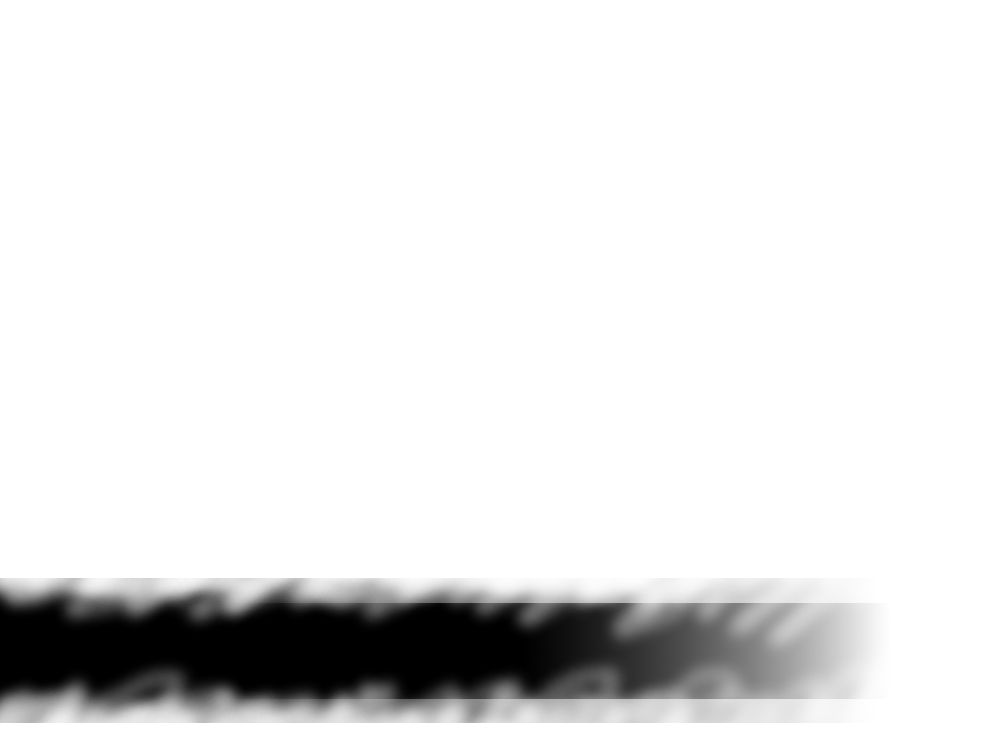
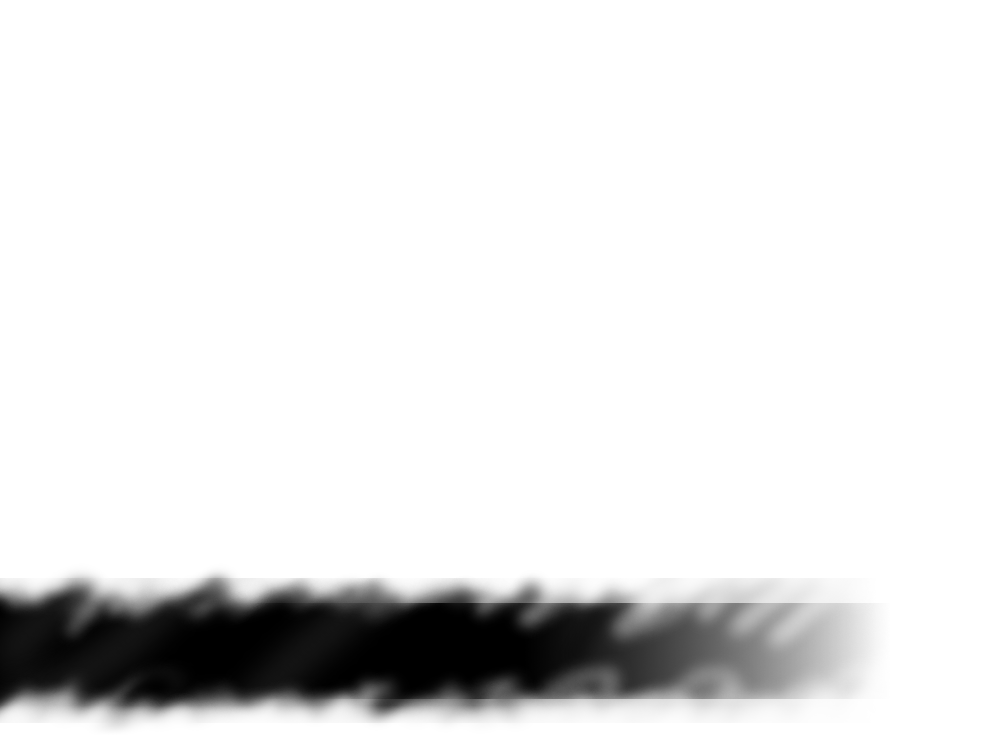
Added a 'textureOffset' property to GLVideoDrawable and integrated it with the GLSL shaders inorder to allow offseting the video texture while keeping the alpha mask in the same place.
git-svn-id: http://dviz.googlecode.com/svn/trunk@622 5ee4d49e-9b41-11de-8595-bbd473b9459f

diff --git a/src/glvidtex/GLVideoDrawable.cpp b/src/glvidtex/GLVideoDrawable.cpp
@@ -55,10 +55,13 @@ static const char *qt_glsl_xrgbShaderProgram =
         "uniform sampler2D alphaMask;\n"
         "uniform mediump mat4 colorMatrix;\n"
         "uniform mediump float alpha;\n"
+        "uniform mediump float texOffsetX;\n"
+        "uniform mediump float texOffsetY;\n"
         "varying highp vec2 textureCoord;\n"
         "void main(void)\n"
         "{\n"
-        "    highp vec4 color = vec4(texture2D(texRgb, textureCoord.st).bgr, 1.0);\n"
+        "    mediump vec2 texPoint = vec2(textureCoord.s + texOffsetX, textureCoord.t + texOffsetY);\n"
+        "    highp vec4 color = vec4(texture2D(texRgb, texPoint).bgr, 1.0);\n"
         "    color = colorMatrix * color;\n"
         "    gl_FragColor = vec4(color.rgb, alpha * texture2D(alphaMask, textureCoord.st).a);\n"
         "}\n";
@@ -70,12 +73,15 @@ static const char *qt_glsl_argbShaderProgram =
 	"uniform sampler2D alphaMask;\n"
 	"uniform mediump mat4 colorMatrix;\n"
 	"uniform mediump float alpha;\n"
+	"uniform mediump float texOffsetX;\n"
+        "uniform mediump float texOffsetY;\n"
 	"varying highp vec2 textureCoord;\n"
 	"void main(void)\n"
 	"{\n"
-	"    highp vec4 color = vec4(texture2D(texRgb, textureCoord.st).bgr, 1.0);\n"
+	"    mediump vec2 texPoint = vec2(textureCoord.s + texOffsetX, textureCoord.t + texOffsetY);\n"
+	"    highp vec4 color = vec4(texture2D(texRgb, texPoint).bgr, 1.0);\n"
 	"    color = colorMatrix * color;\n"
-	"    gl_FragColor = vec4(color.rgb, texture2D(texRgb, textureCoord.st).a * alpha * texture2D(alphaMask, textureCoord.st).a);\n"
+	"    gl_FragColor = vec4(color.rgb, texture2D(texRgb, texPoint).a * alpha * texture2D(alphaMask, textureCoord.st).a);\n"
 	"}\n";
 
 
@@ -143,12 +149,15 @@ static const char *qt_glsl_rgbShaderProgram =
         "uniform sampler2D alphaMask;\n"
         "uniform mediump mat4 colorMatrix;\n"
         "uniform mediump float alpha;\n"
+        "uniform mediump float texOffsetX;\n"
+        "uniform mediump float texOffsetY;\n"
         "varying highp vec2 textureCoord;\n"
         "void main(void)\n"
         "{\n"
-        "    highp vec4 color = vec4(texture2D(texRgb, textureCoord.st).rgb, 1.0);\n"
+        "    mediump vec2 texPoint = vec2(textureCoord.s + texOffsetX, textureCoord.t + texOffsetY);\n"
+        "    highp vec4 color = vec4(texture2D(texRgb, texPoint).rgb, 1.0);\n"
         "    color = colorMatrix * color;\n"
-        "    gl_FragColor = vec4(color.rgb, texture2D(texRgb, textureCoord.st).a * alpha * texture2D(alphaMask, textureCoord.st).a);\n"
+        "    gl_FragColor = vec4(color.rgb, texture2D(texRgb, texPoint).a * alpha * texture2D(alphaMask, textureCoord.st).a);\n"
         "}\n";
 
 // Paints a YUV420P or YV12 frame.
@@ -159,13 +168,16 @@ static const char *qt_glsl_yuvPlanarShaderProgram =
         "uniform sampler2D alphaMask;\n"
         "uniform mediump mat4 colorMatrix;\n"
         "uniform mediump float alpha;\n"
+        "uniform mediump float texOffsetX;\n"
+        "uniform mediump float texOffsetY;\n"
         "varying highp vec2 textureCoord;\n"
         "void main(void)\n"
         "{\n"
+        "    mediump vec2 texPoint = vec2(textureCoord.s + texOffsetX, textureCoord.t + texOffsetY);\n"
         "    highp vec4 color = vec4(\n"
-        "           texture2D(texY, textureCoord.st).r,\n"
-        "           texture2D(texU, textureCoord.st).r,\n"
-        "           texture2D(texV, textureCoord.st).r,\n"
+        "           texture2D(texY, texPoint).r,\n"
+        "           texture2D(texU, texPoint).r,\n"
+        "           texture2D(texV, texPoint).r,\n"
         "           1.0);\n"
         "    color = colorMatrix * color;\n"
         "    gl_FragColor = vec4(color.rgb, alpha * texture2D(alphaMask, textureCoord.st).a);\n"
@@ -225,6 +237,7 @@ GLVideoDrawable::GLVideoDrawable(QObject *parent)
 	, m_validShader(false)
 	, m_program(0)
 	, m_uploadedCacheKey(0)
+	, m_textureOffset(0,0)
 {
 	
 	m_imagePixelFormats
@@ -749,35 +762,44 @@ const char * GLVideoDrawable::resizeTextures(const QSize& frameSize)
 	//qDebug() << "GLVideoDrawable::resizeTextures(): "<<objectName()<<" \t frameSize: "<<frameSize<<", format: "<<m_videoFormat.pixelFormat;
 	m_frameSize = frameSize;
 
+	bool debugShaderName = true;
 	switch (m_videoFormat.pixelFormat) 
 	{
 	case QVideoFrame::Format_RGB32:
-// 		qDebug() << "GLVideoDrawable::resizeTextures(): \t Format RGB32, using qt_glsl_xrgbShaderProgram";
+ 		if(debugShaderName)
+ 			qDebug() << "GLVideoDrawable::resizeTextures(): \t Format RGB32, using qt_glsl_xrgbShaderProgram";
 		initRgbTextureInfo(GL_RGBA, GL_RGBA, GL_UNSIGNED_BYTE, frameSize);
 		fragmentProgram = qt_glsl_xrgbShaderProgram;
 		break;
         case QVideoFrame::Format_ARGB32:
-//         	qDebug() << "GLVideoDrawable::resizeTextures(): \t Format ARGB, using qt_glsl_argbShaderProgram";
+         	if(debugShaderName)
+         		qDebug() << "GLVideoDrawable::resizeTextures(): \t Format ARGB, using qt_glsl_argbShaderProgram";
 		initRgbTextureInfo(GL_RGBA, GL_RGBA, GL_UNSIGNED_BYTE, frameSize);
 		fragmentProgram = qt_glsl_argbShaderProgram;
 		break;
 #ifndef QT_OPENGL_ES
         case QVideoFrame::Format_RGB24:
-//         	qDebug() << "GLVideoDrawable::resizeTextures(): \t Format RGB24, using qt_glsl_rgbShaderProgram";
+        	if(debugShaderName)
+         		qDebug() << "GLVideoDrawable::resizeTextures(): \t Format RGB24, using qt_glsl_rgbShaderProgram";
 		initRgbTextureInfo(GL_RGB8, GL_RGB, GL_UNSIGNED_BYTE, frameSize);
 		fragmentProgram = qt_glsl_rgbShaderProgram;
 		break;
 #endif
 	case QVideoFrame::Format_RGB565:
-// 		qDebug() << "GLVideoDrawable::resizeTextures(): \t Format RGB565, using qt_glsl_rgbShaderProgram";
+		if(debugShaderName)
+			qDebug() << "GLVideoDrawable::resizeTextures(): \t Format RGB565, using qt_glsl_rgbShaderProgram";
 		initRgbTextureInfo(GL_RGB, GL_RGB, GL_UNSIGNED_SHORT_5_6_5, frameSize);
 		fragmentProgram = qt_glsl_rgbShaderProgram;
 		break;
 	case QVideoFrame::Format_YV12:
+		if(debugShaderName)
+			qDebug() << "GLVideoDrawable::resizeTextures(): \t Format YV12, using qt_glsl_yuvPlanarShaderProgram";
 		initYv12TextureInfo(frameSize);
 		fragmentProgram = qt_glsl_yuvPlanarShaderProgram;
 		break;
 	case QVideoFrame::Format_YUV420P:
+		if(debugShaderName)
+			qDebug() << "GLVideoDrawable::resizeTextures(): \t Format YUV420P, using qt_glsl_yuvPlanarShaderProgram";
 		initYuv420PTextureInfo(frameSize);
 		fragmentProgram = qt_glsl_yuvPlanarShaderProgram;
 		break;
@@ -808,6 +830,10 @@ void GLVideoDrawable::updateRects()
 	m_sourceRect = m_frame.rect;
 	//if(m_frame.rect != m_sourceRect)
 	setAlphaMask(m_alphaMask);
+	
+	
+	m_invertedOffset = QPointF(m_textureOffset.x() * 1/m_sourceRect.width(),
+				   m_textureOffset.y() * 1/m_sourceRect.height());
 	
 	// force mask to be re-scaled
 	//qDebug() << "GLVideoDrawable::updateRects(): "<<this<<",  New source rect: "<<m_sourceRect<<", mask size:"<<m_alphaMask.size()<<", isNull?"<<m_alphaMask.isNull();
@@ -865,6 +891,17 @@ void GLVideoDrawable::setDisplayOptions(const VideoDisplayOptions& opts)
 	m_displayOpts = opts;
 	m_colorsDirty = true;
 	emit displayOptionsChanged(opts);
+	updateGL();
+}
+
+void GLVideoDrawable::setTextureOffset(double x, double y)
+{
+	setTextureOffset(QPointF(x,y));
+}
+
+void GLVideoDrawable::setTextureOffset(const QPointF& point)
+{
+	m_textureOffset = point;
 	updateGL();
 }
 	
@@ -935,10 +972,10 @@ void GLVideoDrawable::paintGL()
 
 	const GLfloat vertexCoordArray[] =
 	{
-		target.left()     , target.bottom() + 1,(GLfloat)zIndex(),
-		target.right() + 1, target.bottom() + 1,(GLfloat)zIndex(),
-		target.left()     , target.top(), 	(GLfloat)zIndex(),
-		target.right() + 1, target.top(), 	(GLfloat)zIndex()
+		target.left()     , target.bottom() + 1,//(GLfloat)zIndex(),
+		target.right() + 1, target.bottom() + 1,//(GLfloat)zIndex(),
+		target.left()     , target.top(), 	//(GLfloat)zIndex(),
+		target.right() + 1, target.top()//, 	(GLfloat)zIndex()
 	};
 	
 	
@@ -967,12 +1004,15 @@ void GLVideoDrawable::paintGL()
 	m_program->enableAttributeArray("vertexCoordArray");
 	m_program->enableAttributeArray("textureCoordArray");
 	
-	m_program->setAttributeArray("vertexCoordArray",  vertexCoordArray,  3);
+	m_program->setAttributeArray("vertexCoordArray",  vertexCoordArray,  2);
 	m_program->setAttributeArray("textureCoordArray", textureCoordArray, 2);
 	
 	m_program->setUniformValue("positionMatrix",      positionMatrix);
 	
 	m_program->setUniformValue("alpha",               (GLfloat)opacity());
+	m_program->setUniformValue("texOffsetX",          (GLfloat)m_invertedOffset.x());
+	m_program->setUniformValue("texOffsetY",          (GLfloat)m_invertedOffset.y());
+		
 
 	if (m_textureCount == 3) 
 	{

diff --git a/src/glvidtex/main.cpp b/src/glvidtex/main.cpp
@@ -54,9 +54,9 @@ GLDrawable * addCamera(GLWidget *glw, QString camera = "")
 // 		
 
 
-		VideoDisplayOptionWidget *opts = new VideoDisplayOptionWidget(drawable);
-		opts->adjustSize();
-		opts->show();
+// 		VideoDisplayOptionWidget *opts = new VideoDisplayOptionWidget(drawable);
+// 		opts->adjustSize();
+// 		opts->show();
 		return drawable;
 	}
 
@@ -309,7 +309,7 @@ QFormLayout * createToggleBox()
 	tb->setWindowTitle("Toggle Box");
 	QFormLayout *layout = new QFormLayout;
 	tb->setLayout(layout);
-	tb->show();
+	//tb->show();
 	return layout;
 }
 
@@ -349,9 +349,9 @@ int main(int argc, char *argv[])
 /*		d = addCamera(glw,"/dev/video0");
 		if(d)
 		{*/
-			d = addCamera(glw,"/dev/video1");
-			if(d)
-				addButtons(tb,d); 
+// 			d = addCamera(glw,"/dev/video1");
+// 			if(d)
+// 				addButtons(tb,d); 
 			
 			d = addCamera(glw,"/dev/video0");
 			if(d)
@@ -360,12 +360,12 @@ int main(int argc, char *argv[])
 /*		}
 		else
 		*/
-			addButtons(tb,addStaticSource(glw));
+// 			addButtons(tb,addStaticSource(glw));
 	#endif
 	
-	addButtons(tb,addSecondSource(glw));	
-	addButtons(tb,addVideoBug(glw));
-	addButtons(tb,addTextOverlay(glw));
+// 	addButtons(tb,addSecondSource(glw));	
+// 	addButtons(tb,addVideoBug(glw));
+// 	addButtons(tb,addTextOverlay(glw));
 	
 	glw->resize(glw->viewport().width(),glw->viewport().height());
 	
@@ -387,3 +387,4 @@ int main(int argc, char *argv[])
 // 		thread->start();
 // 		m_source = thread;
 // 	}
+ 

diff --git a/src/glvidtex/GLVideoDrawable.h b/src/glvidtex/GLVideoDrawable.h
@@ -110,6 +110,8 @@ class GLVideoDrawable : public GLDrawable
 	Q_PROPERTY(QPointF cropTopLeft READ cropTopLeft WRITE setCropTopLeft);
 	Q_PROPERTY(QPointF flipVertical READ cropBottomRight WRITE setCropBottomRight);
 	
+	Q_PROPERTY(QPointF textureOffset READ textureOffset WRITE setTextureOffset);
+	
 public:
 	GLVideoDrawable(QObject *parent=0);
 	~GLVideoDrawable();
@@ -133,8 +135,12 @@ public:
 	
 	QImage alphaMask() { return m_alphaMask; }
 	
+	QPointF textureOffset() { return m_textureOffset; }
+	
 public slots:
 	void setAlphaMask(const QImage&);
+	void setTextureOffset(double x, double y);
+	void setTextureOffset(const QPointF&);
 
 	void setBrightness(int brightness);
 	void setContrast(int contrast);
@@ -234,6 +240,9 @@ private:
 	QImage m_alphaMask;
 	GLuint m_alphaTextureId;
 	qint64 m_uploadedCacheKey;
+	
+	QPointF m_textureOffset;
+	QPointF m_invertedOffset; // calculated as m_textureOffset.x() * 1/textureWidth, etc
 };
 
 #endif 
